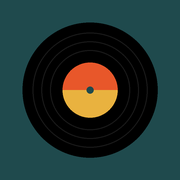
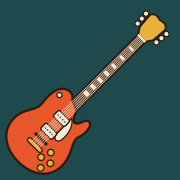
Konzerte: eigenes Home-Bildschirm-Symbol (E-Gitarre)
Claude-Session: https://claude.ai/code/session_012mfQg6qZnhtV5w2DsY3qRL

diff --git a/konzerte/index.html b/konzerte/index.html
@@ -10,8 +10,8 @@
 <meta name="mobile-web-app-capable" content="yes">
 <meta name="apple-mobile-web-app-title" content="Konzerte">
 <meta name="apple-mobile-web-app-status-bar-style" content="default">
-<link rel="apple-touch-icon" href="icon-180.png">
-<link rel="icon" type="image/png" href="icon-180.png">
+<link rel="apple-touch-icon" href="icon-180.png?v=2">
+<link rel="icon" type="image/png" href="icon-180.png?v=2">
 <title>Konzerte in der großen Stadt</title>
 <style>
 @font-face{font-family:Archivo;font-weight:400;font-display:swap;src:url(fonts/archivo-latin-400-normal.woff2) format("woff2")}
